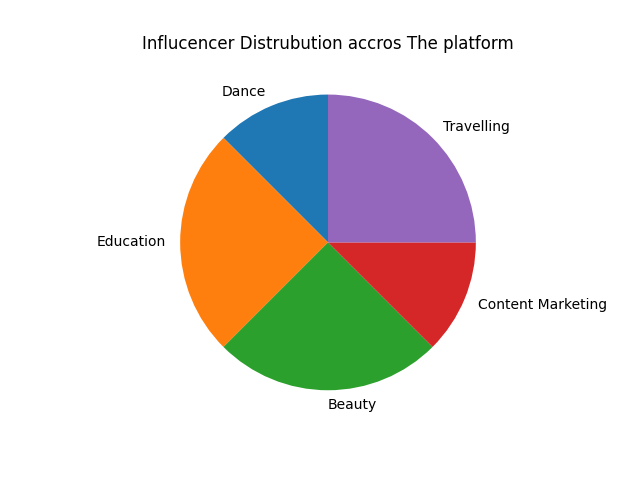
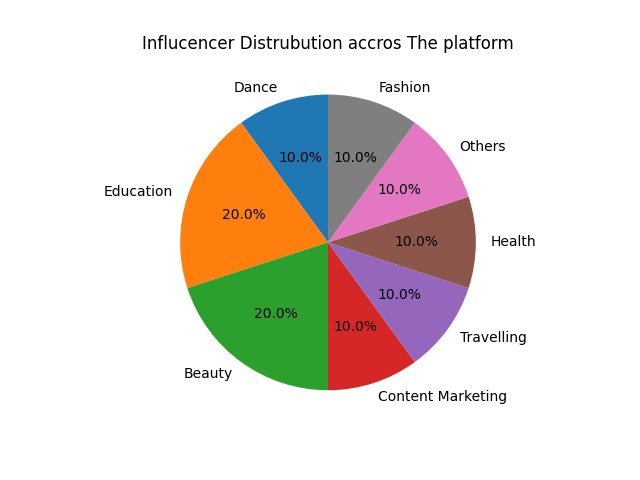
added matplotlib and stats

diff --git a/templates/stats.html b/templates/stats.html
@@ -10,26 +10,27 @@
     <script src="https://cdn.jsdelivr.net/npm/bootstrap@5.3.3/dist/js/bootstrap.min.js" integrity="sha384-0pUGZvbkm6XF6gxjEnlmuGrJXVbNuzT9qBBavbLwCsOGabYfZo0T0to5eqruptLy" crossorigin="anonymous"></script>
 
 </head>
-<body>
+<body>&nbsp;<br>
     {% if suser_id is none %}
-    <div style="margin-left: 20px;"><a class="btn btn-success" href="/user/home/{{userid}}">user Home</a><br>
+    <div style="margin-left: 20px;"><a class="btn btn-success" href="/user/home/{{userid}}">Home</a><br>
         {% endif %}
     </div>    
     {% if userid is none %}
-    <div style="margin-left: 20px;"><a class="btn btn-success" href="/sponser/home/{{suser_id}}">sponser Home</a><br>
+    <div style="margin-left: 20px;"><a class="btn btn-success" href="/sponser/home/{{suser_id}}">Home</a><br>
     {% endif %}
     </div>
-    <div class="data222">
-        Active users =  {{user_count}}<br>
-        Total Number of sponsers = {{spons_count}}<br>
-        Total number of campagins = {{camp_count}}<br>
-        Total number of influencers = {{infu_count}}<br>
-        Total number of ad-requests = {{adcount}}<br>
-        Total number money traded = ${{ money}}
+    <div style="display: flex;">
+        <div class="data222">
+            Active users =  {{user_count}}<br>
+            Total Number of sponsers = {{spons_count}}<br>
+            Total number of campagins = {{camp_count}}<br>
+            Total number of influencers = {{infu_count}}<br>
+            Total number of ad-requests = {{adcount}}<br>
+            Total number money traded = ${{ money}}
+        </div>
+        <div>
+            <img src="{{ url_for('static', filename='uploads/pie_chart.png') }}" alt="Pie Chart">
+        </div>
     </div>
-    
-    <div>
-        <img src="{{ url_for('static', filename='uploads/pie_chart.png') }}" alt="Pie Chart">
-      </div>
 </body>
 </html>

diff --git a/templates/sponserdetails.html b/templates/sponserdetails.html
@@ -28,9 +28,21 @@
                 <input type="placeholder" name="company_name"  class="form-control" />
             </div><br>
             <div class="col-12">
-                <label class="form-label" for="inputcity"> industry: </label>
-                <input type="placeholder" name="industry" class="form-control"/>
-            </div><br>
+                <label class="form-label"> industry: </label>
+                <select  name="industry" class="form-control" style="width: 60%;">
+                 <option value="Beauty & Fashion">Beauty & Fashion</option>
+                 <option value="Health">Health</option>
+                 <option value="Content Marketing">Infrastructure</option>
+                 <option value="NGO">Non-Government org. (NGO's)</option>
+                 <option value="Food & Agriculture">Food & Agriculture</option>
+                 <option value="Technology and gadets">Technology and gadets</option>
+                 <option value="Individual">Individual</option>
+                 <option value="Education">Education</option>
+                 <option value="Internet">Internet</option>
+                 <option value="Bank & insurance">Bank & insurance</option>
+                 <option value="Others">Others</option>
+                </select><br>
+             </div><br>
             <div class="col-12">
             <label class="form-label" for="inputcity"> budget: </label>
             <input type="'placeholder" name="budget" class="form-control">

diff --git a/templates/admin.html b/templates/admin.html
@@ -9,7 +9,7 @@
     <script src="https://cdn.jsdelivr.net/npm/@popperjs/core@2.11.8/dist/umd/popper.min.js" integrity="sha384-I7E8VVD/ismYTF4hNIPjVp/Zjvgyol6VFvRkX/vR+Vc4jQkC+hVqc2pM8ODewa9r" crossorigin="anonymous"></script>
 <script src="https://cdn.jsdelivr.net/npm/bootstrap@5.3.3/dist/js/bootstrap.min.js" integrity="sha384-0pUGZvbkm6XF6gxjEnlmuGrJXVbNuzT9qBBavbLwCsOGabYfZo0T0to5eqruptLy" crossorigin="anonymous"></script>
 </head>
-<body style="background-color: lightgray;">
+<body>
     <ul class="nav nav-tabs">
         <li class="nav-item">
           <a class="nav-link active" aria-current="page" href="/login">Home</a>
@@ -46,6 +46,7 @@
         </li>
       </ul>
 <br>
+<div>
 <div class="data222">
 Active users =  {{user_count}}<br>
 Total Number of sponsers = {{spons_count}}<br>
@@ -53,9 +54,11 @@ Total number of campagins = {{camp_count}}<br>
 Total number of influencers = {{infu_count}}<br>
 Total number of ad-requests = {{adcount}}<br>
 Total number money traded = ${{ money}}
-
+</div>&nbsp;
 <div>
+  <h3 style="margin-left:20px">Influncer's Data</h3><hr>
   <img src="{{ url_for('static', filename='uploads/pie_chart.png') }}" alt="Pie Chart">
+</div>
 </div>
 </div>
 </body>

diff --git a/templates/logging.html b/templates/logging.html
@@ -9,12 +9,7 @@
     <script src="https://cdn.jsdelivr.net/npm/@popperjs/core@2.11.8/dist/umd/popper.min.js" integrity="sha384-I7E8VVD/ismYTF4hNIPjVp/Zjvgyol6VFvRkX/vR+Vc4jQkC+hVqc2pM8ODewa9r" crossorigin="anonymous"></script>
     <script src="https://cdn.jsdelivr.net/npm/bootstrap@5.3.3/dist/js/bootstrap.min.js" integrity="sha384-0pUGZvbkm6XF6gxjEnlmuGrJXVbNuzT9qBBavbLwCsOGabYfZo0T0to5eqruptLy" crossorigin="anonymous"></script>
 </head>
-<body >
-    <div class="image">
-        <div id="intro">
-            Welcome 
-        </div>
-        {% with messages = get_flashed_messages() %}
+{% with messages = get_flashed_messages() %}
         {% if messages %}
         <ul class=flashes>
 
@@ -28,6 +23,13 @@
         </ul>
          {% endif %}
         {% endwith %}
+<body style="background-color: #111D4A">
+    <div class="image">
+        <div id="intro">
+            Welcome To <br>
+            Influencer Engagement and Sponsorship Coordination Platform<br>
+        </div>
+        
         <div class="form_data">
             <form method="POST" action="/" id = "data-form">
                 <div class="mb-3">

diff --git a/static/style.css b/static/style.css
@@ -12,14 +12,6 @@
     margin-left: 20px;
 }
 
-.form_data{
-    display: flex; 
-    align-items: center; 
-    justify-content: center; 
-    min-height: 100vh; 
-    margin-left: 55%;
-    color: white;
-}
 
 #data-form{
     display: block;
@@ -29,19 +21,20 @@
     justify-content: space-between;
 }
 
-.image{
-    background-color: #111D4A;
-    /* background-image: url("Slide1.JPG"); */
-    background-size: cover;
-}
 
-/* .btn-primary{
-    background-color:
-    
-} */
 #intro{
+    font-size:xx-large;
+    padding-top: 3%;   
+    text-align: center;
     color: white;
 }
+.form_data{
+    margin-top: 6%;
+    display: flex; 
+    justify-content: center; 
+    color: white;
+}
+
 
 .accordion-button:not(.collapsed) {
     background-color: #b6dcfe; 
@@ -309,7 +302,7 @@
 }
 
 .sepearate_container{
-    width: 70%;
+    width: 80%;
 }
 .contain2{
     box-shadow: 0 0 10px rgba(0, 0, 0, 0.1);

diff --git a/app.py b/app.py
@@ -83,10 +83,9 @@ def countsss(x):
         count+=1
     return count    
 
-def generatepie(data,mylabel):
-    plt.pie(data, labels=mylabel,startangle=90)
+def generatepie(data,mylabel,):
+    plt.pie(data, labels=mylabel,startangle=90,autopct='%1.1f%%')
     plt.title("Influcencer Distrubution accros The platform")
-    
     # plt.show()
     plt.savefig('static/uploads/pie_chart.png')
     plt.close() 
